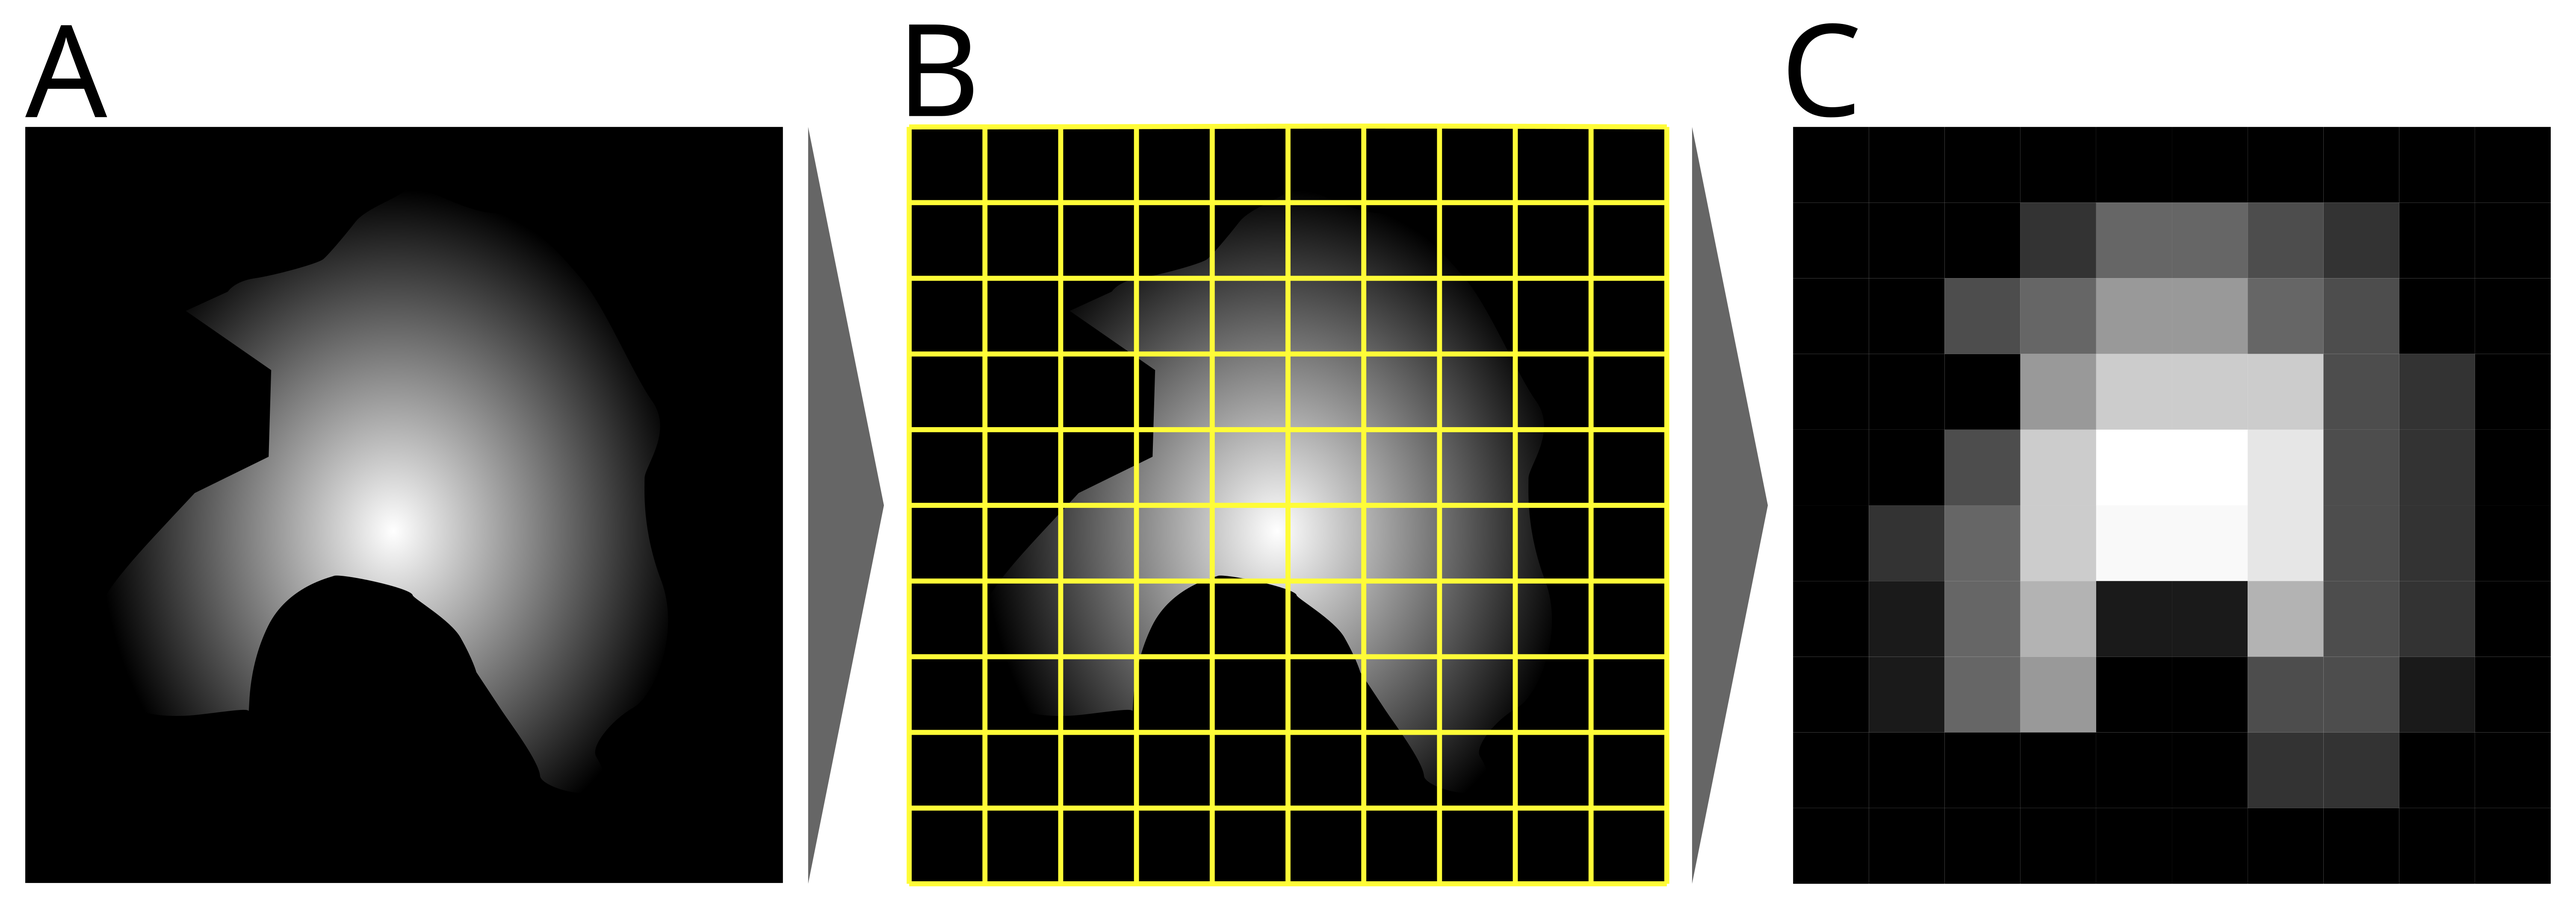
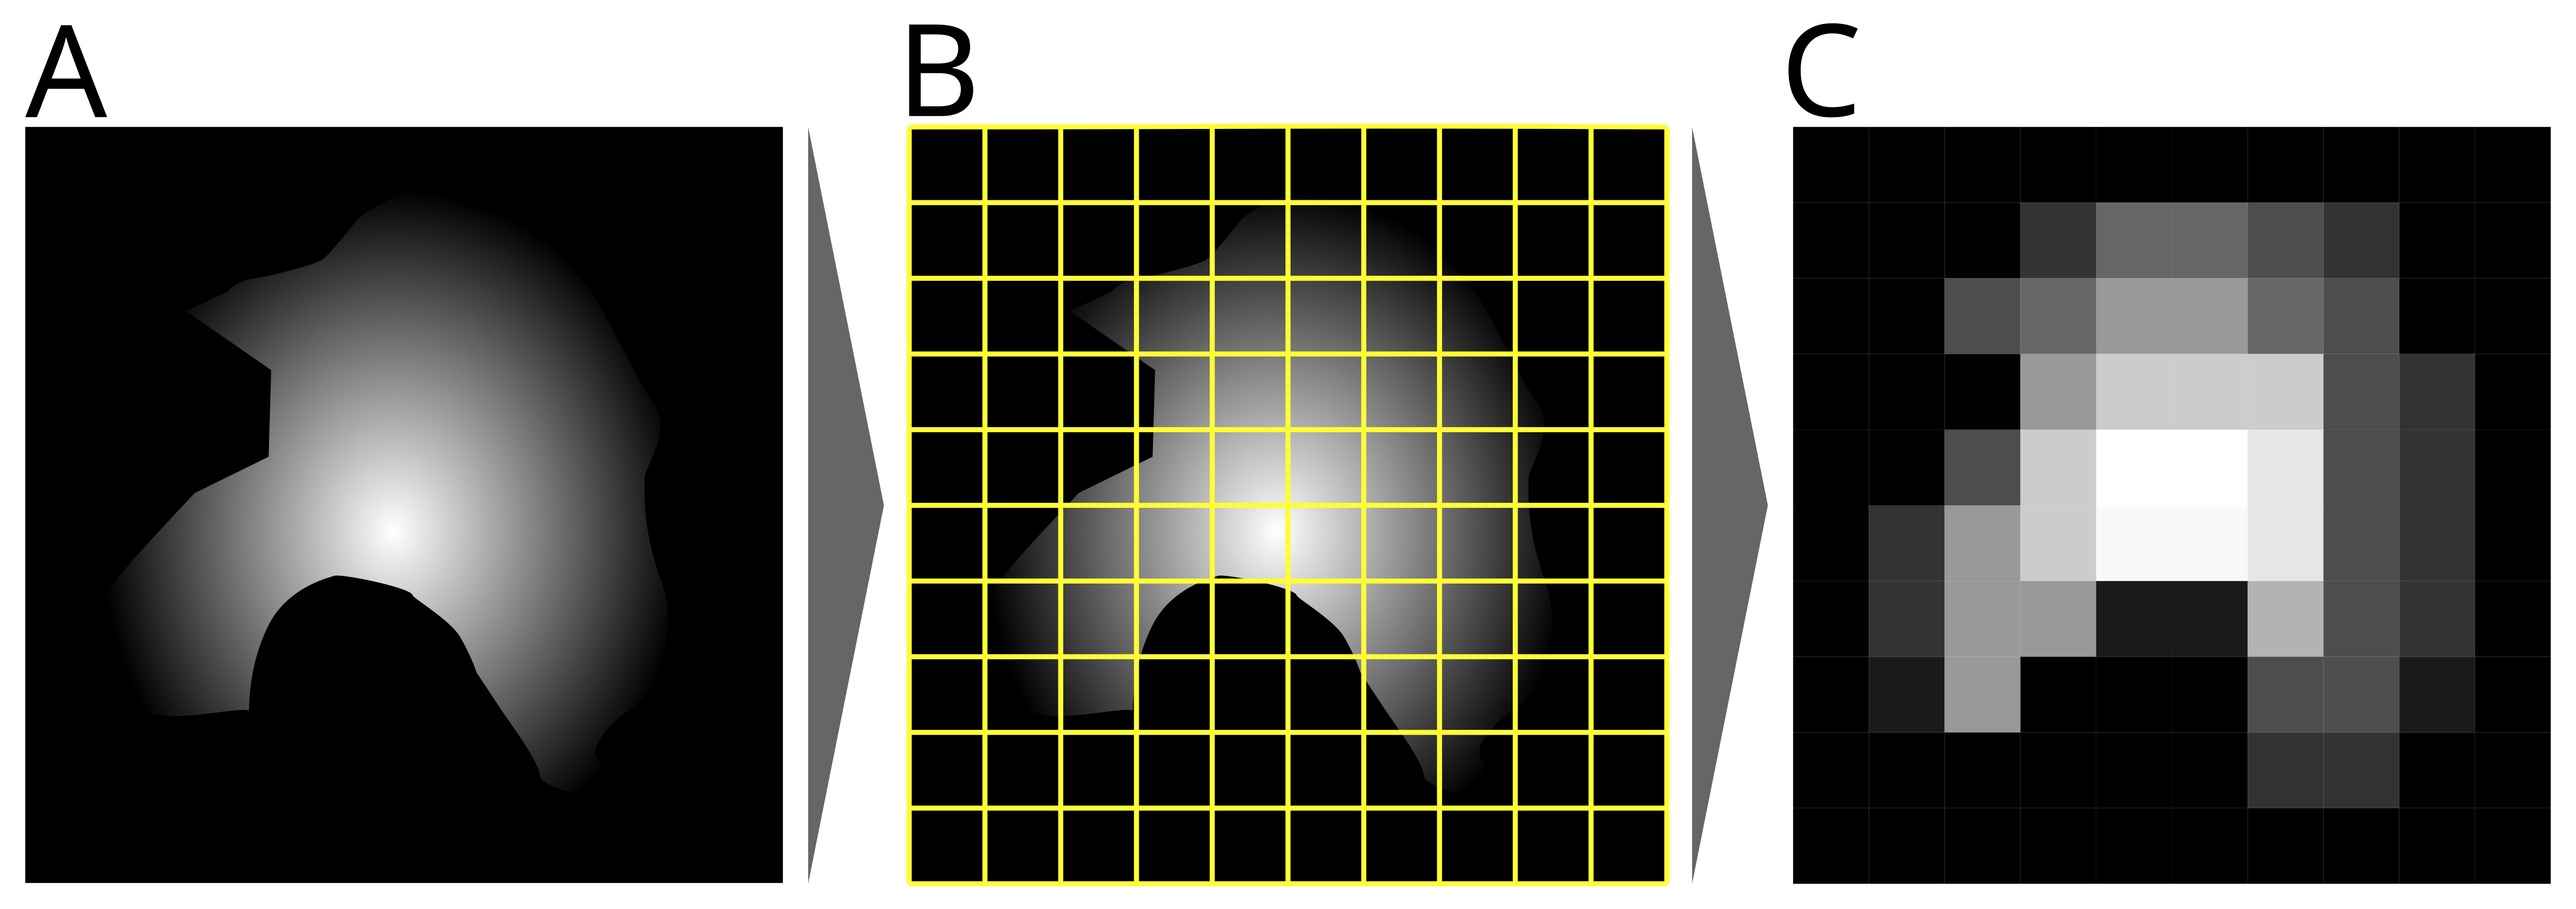
Revised small points

Changed region(s): [[0.7178, 0.5583, 0.8114, 0.8064]]

diff --git a/checklists/fiji_course/image_histogram.md b/checklists/fiji_course/image_histogram.md
@@ -33,15 +33,15 @@ The spatial dimension is represented as pixels in 2D or voxels in 3D volumes. Th
 :name: sampling
 :width: 100%
 
-Illustration demonstrating sampling in space and intensity. (A) Illustration of a real object, e.g., a cell, with a smooth, continuous outline (i.e., analog). (B) A modern microscope samples this analog object (yellow grid lines) and transforms (digitizes) it into a digital representation, thus discretizing the space into pixels and the intensity into different gray values. (C) The sampled cell as a digital image; note the loss of spatial information due to the sampling.
+Illustration demonstrating sampling in space and intensity. (A) Illustration of a real object, e.g., a cell, with a smooth, continuous outline (i.e., analog). (B) A modern microscope samples this analog object (yellow grid lines) and transforms (digitizes) it into a digital representation, thus discretizing the space into pixels and the intensity into different gray values. (C) The sampled cell as a digital image; note the clear loss of information due to the sampling.
 ```
 
 ```{admonition} Think about it
 :class: tip
 
-The above example is extreme to illustrate a point. However, image acquisition always means some loss of information. Can you think of why this is unavoidable?
+The above example is extreme to illustrate a point. However, image acquisition always means some loss of information. Can you think of why this is unavoidable? 
 
-:::
+```
 
 Finally, the light intensity that the microscope captures is represented as different shades of gray of each pixel or voxel.
 
